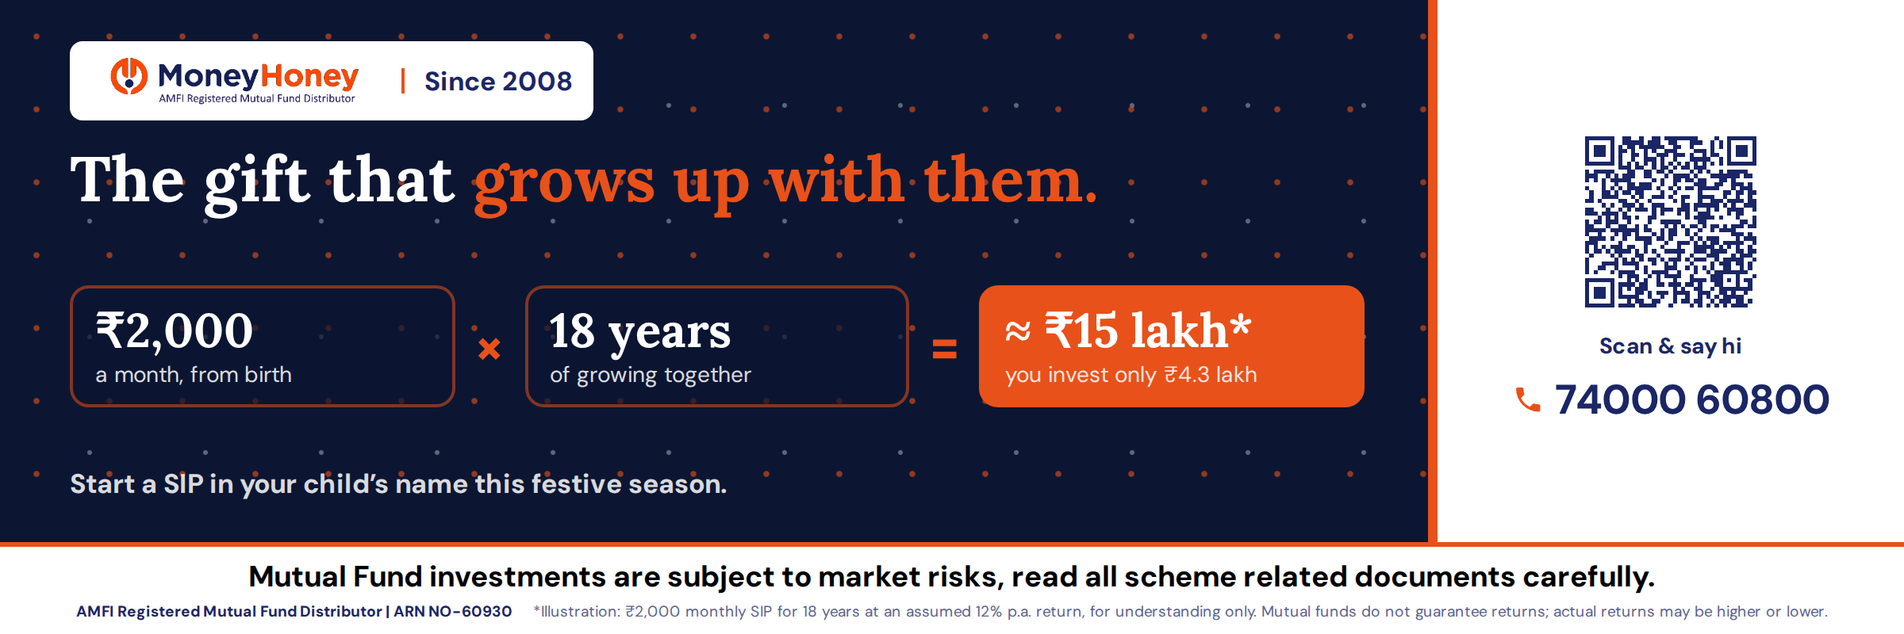
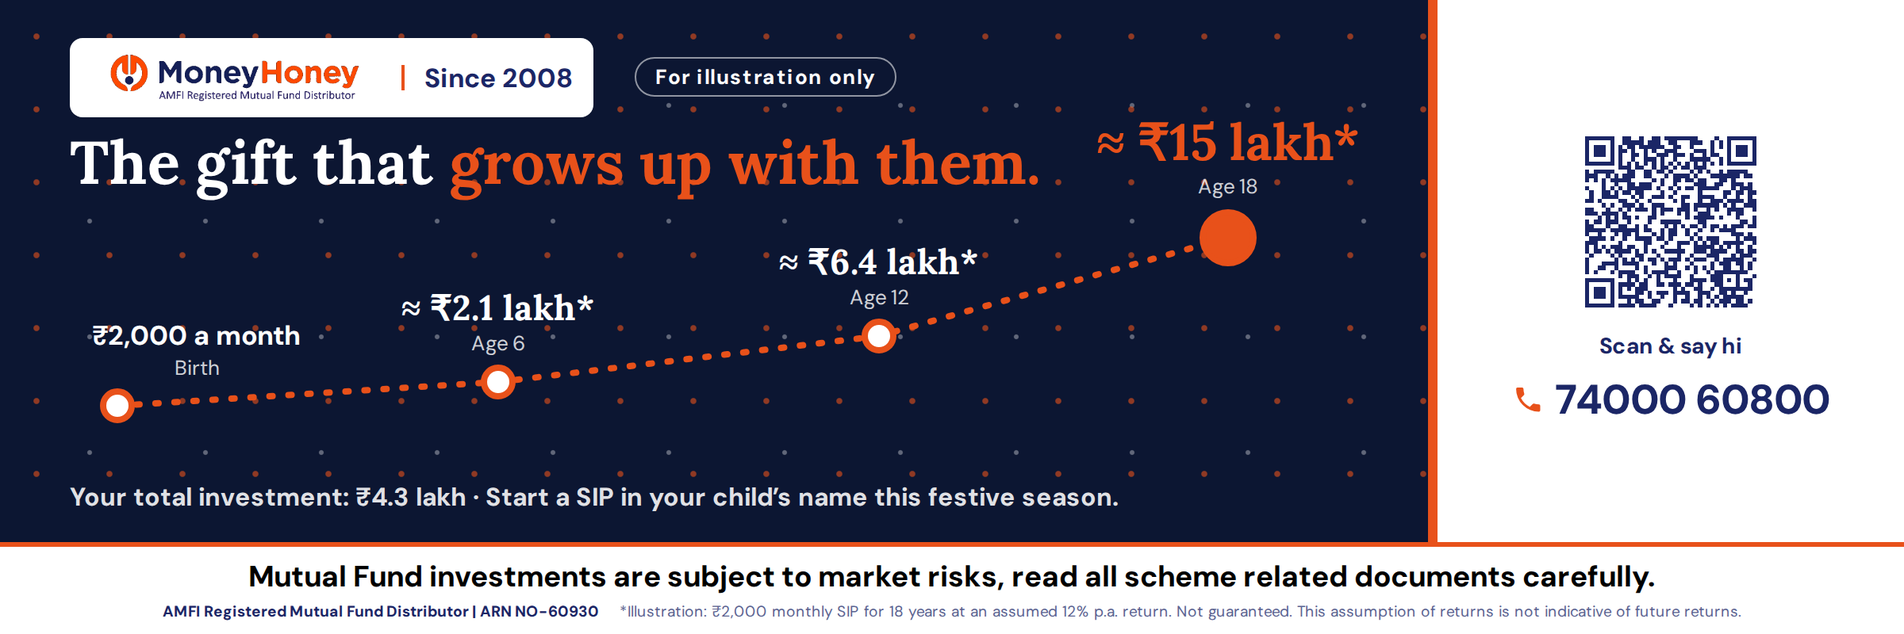
October: illustration tag and fuller footnote; backdrop shows SIP growth journey instead of multiplication
Claude-Session: https://claude.ai/code/session_012G79t5yK17L6XzJDoU9tJ5

diff --git a/bus-stop-banners/monthly/hi/10-oct/backdrop-12x4.html b/bus-stop-banners/monthly/hi/10-oct/backdrop-12x4.html
@@ -64,15 +64,20 @@ body.hi *:not(.lat) { letter-spacing:0 !important; }
 
 .banner { width:1200px; height:400px; background:#0C1632; }
 .stage { background-color:#0C1632; background-image:radial-gradient(circle, rgba(232,81,26,.6) 0 1.6px, transparent 2.2px), radial-gradient(circle, rgba(255,255,255,.35) 0 1.2px, transparent 1.8px); background-size:46px 46px, 73px 73px; background-position:0 0, 20px 30px; }
-.lg { position:absolute; left:44px; top:26px; }
-.h1 { position:absolute; left:44px; right:340px; top:92px; color:#fff; font-size:40px; }
-.eq { position:absolute; left:44px; right:340px; top:180px; display:flex; align-items:center; gap:12px; }
-.eq .t { flex:1; border:2px solid rgba(232,81,26,.55); border-radius:12px; padding:10px 14px; color:#fff; background:rgba(12,22,50,.7); }
-.eq .t.hl { background:var(--orange); border-color:var(--orange); color:#fff; }
-.eq .v { font-family:var(--display); font-weight:var(--dw); font-size:30px; white-space:nowrap; line-height:1.1; }
-.eq .l { font-size:14px; opacity:.85; margin-top:2px; }
-.eq .op { color:var(--orange); font-size:34px; font-weight:800; }
-.sub { position:absolute; left:44px; right:340px; bottom:26px; color:rgba(255,255,255,.85); font-size:17px; font-weight:600; }
+.lg { position:absolute; left:44px; top:24px; }
+.tag { position:absolute; left:400px; top:36px; color:#fff; font-size:13px; font-weight:700; letter-spacing:.06em;
+  border:1.5px solid rgba(255,255,255,.55); border-radius:30px; padding:3px 12px; }
+.h1 { position:absolute; left:44px; right:340px; top:82px; color:#fff; font-size:38px; }
+.journey { position:absolute; left:44px; top:128px; width:760px; height:150px; }
+.journey svg { position:absolute; left:0; top:0; }
+.ms { position:absolute; transform:translate(-50%, -100%); margin-top:-16px; text-align:center; white-space:nowrap; color:#fff; }
+.ms .v { font-family:var(--display); font-weight:var(--dw); font-size:22px; line-height:1.1; }
+.ms .a { font-size:13px; opacity:.8; margin-top:2px; }
+.ms.last { margin-top:-24px; } .ms.last .v { font-size:32px; color:var(--orange); }
+.ms.first { transform:translate(-12%, -100%); }
+.ms.first .v { font-family:var(--sans); font-weight:700; font-size:17px; }
+.inv { position:absolute; left:44px; bottom:18px; color:rgba(255,255,255,.9); font-size:16px; font-weight:600; }
+.inv b { color:var(--orange); }
 .cta { position:absolute; right:0; top:0; bottom:0; width:300px; background:#fff; display:flex; flex-direction:column;
   align-items:center; justify-content:center; gap:12px; border-left:6px solid var(--orange); }
 
@@ -83,15 +88,15 @@ body.hi *:not(.lat) { letter-spacing:0 !important; }
 <div class="stage">
 
 <div class="lg"><div class="lockup chip" style="--lh:38px;"><img src="../../assets/logo.png" alt="MoneyHoney"><span class="since lat">Since 2008</span></div></div>
+<div class="tag">केवल उदाहरण के लिए</div>
 <div class="h1 d">ऐसा तोहफ़ा, <span class="o">जो बच्चे के साथ बड़ा हो।</span></div>
-<div class="eq"><div class="t"><div class="v">&#8377;2,000</div><div class="l">हर महीने, जन्म से</div></div><div class="op">&times;</div>
-<div class="t"><div class="v">18 साल</div><div class="l">साथ-साथ बढ़ते हुए</div></div><div class="op">=</div>
-<div class="t hl"><div class="v">&asymp; &#8377;15 लाख*</div><div class="l">आपका निवेश सिर्फ़ &#8377;4.3 लाख</div></div></div>
-<div class="sub">इस त्योहार, अपने बच्चे के नाम पर SIP शुरू करें।</div>
+<div class="journey"><svg width="760" height="150" viewBox="0 0 760 150">
+<path d="M30,128 270,113 510,84 730,22" fill="none" stroke="#E8511A" stroke-width="4" stroke-dasharray="2 10" stroke-linecap="round"/><circle cx="30" cy="128" r="9" fill="#fff" stroke="#E8511A" stroke-width="4"/><circle cx="270" cy="113" r="9" fill="#fff" stroke="#E8511A" stroke-width="4"/><circle cx="510" cy="84" r="9" fill="#fff" stroke="#E8511A" stroke-width="4"/><circle cx="730" cy="22" r="16" fill="#E8511A" stroke="#E8511A" stroke-width="4"/></svg><div class="ms first" style="left:30px;top:128px"><div class="v">&#8377;2,000 हर महीने</div><div class="a">जन्म</div></div><div class="ms" style="left:270px;top:113px"><div class="v">&asymp; &#8377;2.1 लाख*</div><div class="a">6 साल</div></div><div class="ms" style="left:510px;top:84px"><div class="v">&asymp; &#8377;6.4 लाख*</div><div class="a">12 साल</div></div><div class="ms last" style="left:730px;top:22px"><div class="v">&asymp; &#8377;15 लाख*</div><div class="a">18 साल</div></div></div>
+<div class="inv">आपका कुल निवेश: &#8377;4.3 लाख &middot; इस त्योहार, अपने बच्चे के नाम पर SIP शुरू करें।</div>
 <div class="cta"><div class="qrb"><div class="qr" style="width:128px;height:128px"><svg viewBox="0 0 41 41" width="100%" height="100%" shape-rendering="crispEdges" class="segno"><path class="qrline" stroke="#1b2666" d="M0 0.5h7m1 0h2m1 0h1m2 0h1m1 0h2m2 0h1m2 0h1m2 0h1m3 0h1m3 0h7m-41 1h1m5 0h1m1 0h2m1 0h2m2 0h2m1 0h5m1 0h3m2 0h1m1 0h2m1 0h1m5 0h1m-41 1h1m1 0h3m1 0h1m1 0h3m1 0h2m2 0h1m5 0h1m1 0h2m1 0h2m1 0h3m1 0h1m1 0h3m1 0h1m-41 1h1m1 0h3m1 0h1m6 0h3m2 0h1m6 0h1m3 0h1m1 0h2m1 0h1m1 0h3m1 0h1m-41 1h1m1 0h3m1 0h1m1 0h3m1 0h3m4 0h3m3 0h2m1 0h5m1 0h1m1 0h3m1 0h1m-41 1h1m5 0h1m3 0h1m3 0h1m2 0h2m3 0h2m1 0h2m5 0h1m1 0h1m5 0h1m-41 1h7m1 0h1m1 0h1m1 0h1m1 0h1m1 0h1m1 0h1m1 0h1m1 0h1m1 0h1m1 0h1m1 0h1m1 0h1m1 0h1m1 0h7m-32 1h2m1 0h1m2 0h2m1 0h1m1 0h1m2 0h3m2 0h1m2 0h2m-33 1h1m2 0h7m1 0h1m2 0h2m1 0h4m1 0h1m4 0h3m1 0h3m2 0h1m1 0h3m-41 1h1m2 0h3m1 0h2m1 0h1m1 0h1m3 0h1m2 0h2m2 0h2m2 0h2m1 0h2m3 0h2m2 0h1m-37 1h4m2 0h2m1 0h1m1 0h2m1 0h2m1 0h10m3 0h1m1 0h2m1 0h1m-39 1h1m8 0h1m1 0h5m1 0h2m3 0h2m2 0h1m2 0h1m1 0h2m1 0h1m1 0h2m-38 1h2m2 0h4m8 0h1m2 0h2m2 0h2m1 0h3m1 0h1m1 0h1m1 0h1m5 0h1m-40 1h4m3 0h1m1 0h3m1 0h1m1 0h1m1 0h2m4 0h6m4 0h1m1 0h1m1 0h1m1 0h1m-41 1h2m2 0h1m1 0h1m3 0h1m2 0h1m1 0h1m2 0h1m3 0h1m1 0h2m1 0h2m1 0h2m1 0h2m1 0h2m1 0h2m-41 1h1m1 0h1m1 0h2m3 0h3m1 0h3m2 0h2m4 0h1m3 0h1m2 0h3m1 0h4m-37 1h1m1 0h1m1 0h1m2 0h2m4 0h2m2 0h1m1 0h3m1 0h1m1 0h2m1 0h1m1 0h2m5 0h2m-41 1h1m2 0h2m2 0h1m1 0h7m2 0h2m2 0h1m1 0h1m1 0h2m2 0h4m2 0h2m1 0h1m-40 1h1m1 0h2m2 0h1m2 0h2m1 0h1m1 0h3m2 0h1m1 0h11m3 0h2m1 0h1m1 0h1m-40 1h1m1 0h1m1 0h1m3 0h2m3 0h6m2 0h4m5 0h3m2 0h5m-41 1h2m2 0h5m2 0h1m2 0h1m1 0h1m2 0h4m3 0h2m1 0h3m2 0h2m2 0h1m-38 1h1m1 0h3m1 0h3m2 0h2m1 0h2m1 0h3m2 0h1m1 0h3m2 0h3m1 0h1m1 0h3m-39 1h2m1 0h2m1 0h1m1 0h2m2 0h2m1 0h1m1 0h2m2 0h1m1 0h2m1 0h2m1 0h2m2 0h3m2 0h1m-39 1h1m1 0h1m1 0h2m1 0h2m2 0h2m1 0h2m1 0h2m1 0h1m1 0h3m1 0h4m3 0h4m2 0h2m-41 1h5m1 0h1m1 0h6m1 0h1m2 0h2m2 0h2m2 0h3m1 0h1m1 0h1m1 0h4m1 0h2m-37 1h1m2 0h3m1 0h1m1 0h1m6 0h6m1 0h2m1 0h1m1 0h5m1 0h1m1 0h1m-40 1h2m2 0h2m1 0h1m2 0h4m1 0h1m1 0h2m5 0h3m1 0h5m2 0h2m2 0h1m-41 1h2m2 0h2m1 0h1m3 0h1m4 0h1m2 0h1m3 0h1m6 0h2m1 0h1m2 0h5m-41 1h2m2 0h4m3 0h4m1 0h1m5 0h5m1 0h1m1 0h2m5 0h1m1 0h2m-41 1h2m1 0h2m2 0h1m2 0h1m2 0h1m3 0h2m2 0h1m1 0h2m1 0h4m1 0h2m3 0h2m1 0h1m-40 1h3m1 0h1m1 0h1m1 0h1m3 0h1m1 0h1m1 0h1m2 0h1m1 0h4m1 0h4m1 0h1m1 0h1m1 0h2m1 0h3m-41 1h3m5 0h2m2 0h1m1 0h3m2 0h2m1 0h2m1 0h3m3 0h2m1 0h1m3 0h1m-39 1h3m3 0h6m1 0h5m1 0h1m1 0h1m1 0h1m3 0h1m1 0h8m1 0h1m1 0h1m-33 1h5m2 0h1m2 0h4m1 0h6m3 0h1m3 0h1m1 0h2m-40 1h7m1 0h3m2 0h1m2 0h3m1 0h1m1 0h2m2 0h2m1 0h1m1 0h2m1 0h1m1 0h1m2 0h1m-40 1h1m5 0h1m1 0h2m2 0h3m2 0h1m3 0h3m2 0h4m1 0h2m3 0h1m3 0h1m-41 1h1m1 0h3m1 0h1m1 0h1m1 0h1m1 0h3m1 0h6m1 0h1m2 0h3m1 0h7m2 0h2m-41 1h1m1 0h3m1 0h1m1 0h2m2 0h1m4 0h1m2 0h1m2 0h4m1 0h2m5 0h1m2 0h1m1 0h1m-41 1h1m1 0h3m1 0h1m3 0h3m2 0h2m1 0h2m1 0h2m1 0h2m1 0h3m3 0h1m1 0h2m3 0h1m-41 1h1m5 0h1m2 0h2m1 0h2m1 0h1m4 0h1m1 0h3m3 0h1m1 0h1m5 0h1m1 0h1m1 0h1m-41 1h7m1 0h1m3 0h4m2 0h1m4 0h1m1 0h3m3 0h3m2 0h2"/></svg></div><div class="qrl" style="font-size:14px;color:inherit">स्कैन करें, बात करें</div></div><div class="call " style="font-size:26px"><svg viewBox="0 0 24 24" class="ico" aria-hidden="true"><path fill="currentColor" d="M6.6 10.8a15.1 15.1 0 0 0 6.6 6.6l2.2-2.2a1 1 0 0 1 1-.25 11.4 11.4 0 0 0 3.6.57 1 1 0 0 1 1 1V20a1 1 0 0 1-1 1A17 17 0 0 1 3 4a1 1 0 0 1 1-1h3.5a1 1 0 0 1 1 1c0 1.25.2 2.45.57 3.57a1 1 0 0 1-.25 1z"/></svg><span>74000 60800</span></div></div>
 </div>
 
-<div class="cz cz-back"><div class="cz-w">Mutual Fund investments are subject to market risks, read all scheme related documents carefully.</div><div class="cz-m"><b>AMFI Registered Mutual Fund Distributor | ARN NO-60930</b><span class="fn">*Illustration: &#8377;2,000 monthly SIP for 18 years at an assumed 12% p.a. return, for understanding only. Mutual funds do not guarantee returns; actual returns may be higher or lower.</span></div></div>
+<div class="cz cz-back"><div class="cz-w">Mutual Fund investments are subject to market risks, read all scheme related documents carefully.</div><div class="cz-m"><b>AMFI Registered Mutual Fund Distributor | ARN NO-60930</b><span class="fn">*Illustration: &#8377;2,000 monthly SIP for 18 years at an assumed 12% p.a. return. Not guaranteed. This assumption of returns is not indicative of future returns.</span></div></div>
 </div>
 </body>
 </html>

diff --git a/bus-stop-banners/monthly/en/10-oct/backdrop-12x4.html b/bus-stop-banners/monthly/en/10-oct/backdrop-12x4.html
@@ -64,15 +64,20 @@ body.hi *:not(.lat) { letter-spacing:0 !important; }
 
 .banner { width:1200px; height:400px; background:#0C1632; }
 .stage { background-color:#0C1632; background-image:radial-gradient(circle, rgba(232,81,26,.6) 0 1.6px, transparent 2.2px), radial-gradient(circle, rgba(255,255,255,.35) 0 1.2px, transparent 1.8px); background-size:46px 46px, 73px 73px; background-position:0 0, 20px 30px; }
-.lg { position:absolute; left:44px; top:26px; }
-.h1 { position:absolute; left:44px; right:340px; top:92px; color:#fff; font-size:40px; }
-.eq { position:absolute; left:44px; right:340px; top:180px; display:flex; align-items:center; gap:12px; }
-.eq .t { flex:1; border:2px solid rgba(232,81,26,.55); border-radius:12px; padding:10px 14px; color:#fff; background:rgba(12,22,50,.7); }
-.eq .t.hl { background:var(--orange); border-color:var(--orange); color:#fff; }
-.eq .v { font-family:var(--display); font-weight:var(--dw); font-size:30px; white-space:nowrap; line-height:1.1; }
-.eq .l { font-size:14px; opacity:.85; margin-top:2px; }
-.eq .op { color:var(--orange); font-size:34px; font-weight:800; }
-.sub { position:absolute; left:44px; right:340px; bottom:26px; color:rgba(255,255,255,.85); font-size:17px; font-weight:600; }
+.lg { position:absolute; left:44px; top:24px; }
+.tag { position:absolute; left:400px; top:36px; color:#fff; font-size:13px; font-weight:700; letter-spacing:.06em;
+  border:1.5px solid rgba(255,255,255,.55); border-radius:30px; padding:3px 12px; }
+.h1 { position:absolute; left:44px; right:340px; top:82px; color:#fff; font-size:38px; }
+.journey { position:absolute; left:44px; top:128px; width:760px; height:150px; }
+.journey svg { position:absolute; left:0; top:0; }
+.ms { position:absolute; transform:translate(-50%, -100%); margin-top:-16px; text-align:center; white-space:nowrap; color:#fff; }
+.ms .v { font-family:var(--display); font-weight:var(--dw); font-size:22px; line-height:1.1; }
+.ms .a { font-size:13px; opacity:.8; margin-top:2px; }
+.ms.last { margin-top:-24px; } .ms.last .v { font-size:32px; color:var(--orange); }
+.ms.first { transform:translate(-12%, -100%); }
+.ms.first .v { font-family:var(--sans); font-weight:700; font-size:17px; }
+.inv { position:absolute; left:44px; bottom:18px; color:rgba(255,255,255,.9); font-size:16px; font-weight:600; }
+.inv b { color:var(--orange); }
 .cta { position:absolute; right:0; top:0; bottom:0; width:300px; background:#fff; display:flex; flex-direction:column;
   align-items:center; justify-content:center; gap:12px; border-left:6px solid var(--orange); }
 
@@ -83,15 +88,15 @@ body.hi *:not(.lat) { letter-spacing:0 !important; }
 <div class="stage">
 
 <div class="lg"><div class="lockup chip" style="--lh:38px;"><img src="../../assets/logo.png" alt="MoneyHoney"><span class="since lat">Since 2008</span></div></div>
+<div class="tag">For illustration only</div>
 <div class="h1 d">The gift that <span class="o">grows up with them.</span></div>
-<div class="eq"><div class="t"><div class="v">&#8377;2,000</div><div class="l">a month, from birth</div></div><div class="op">&times;</div>
-<div class="t"><div class="v">18 years</div><div class="l">of growing together</div></div><div class="op">=</div>
-<div class="t hl"><div class="v">&asymp; &#8377;15 lakh*</div><div class="l">you invest only &#8377;4.3 lakh</div></div></div>
-<div class="sub">Start a SIP in your child&rsquo;s name this festive season.</div>
+<div class="journey"><svg width="760" height="150" viewBox="0 0 760 150">
+<path d="M30,128 270,113 510,84 730,22" fill="none" stroke="#E8511A" stroke-width="4" stroke-dasharray="2 10" stroke-linecap="round"/><circle cx="30" cy="128" r="9" fill="#fff" stroke="#E8511A" stroke-width="4"/><circle cx="270" cy="113" r="9" fill="#fff" stroke="#E8511A" stroke-width="4"/><circle cx="510" cy="84" r="9" fill="#fff" stroke="#E8511A" stroke-width="4"/><circle cx="730" cy="22" r="16" fill="#E8511A" stroke="#E8511A" stroke-width="4"/></svg><div class="ms first" style="left:30px;top:128px"><div class="v">&#8377;2,000 a month</div><div class="a">Birth</div></div><div class="ms" style="left:270px;top:113px"><div class="v">&asymp; &#8377;2.1 lakh*</div><div class="a">Age 6</div></div><div class="ms" style="left:510px;top:84px"><div class="v">&asymp; &#8377;6.4 lakh*</div><div class="a">Age 12</div></div><div class="ms last" style="left:730px;top:22px"><div class="v">&asymp; &#8377;15 lakh*</div><div class="a">Age 18</div></div></div>
+<div class="inv">Your total investment: &#8377;4.3 lakh &middot; Start a SIP in your child&rsquo;s name this festive season.</div>
 <div class="cta"><div class="qrb"><div class="qr" style="width:128px;height:128px"><svg viewBox="0 0 41 41" width="100%" height="100%" shape-rendering="crispEdges" class="segno"><path class="qrline" stroke="#1b2666" d="M0 0.5h7m2 0h2m2 0h1m2 0h2m1 0h8m4 0h1m2 0h7m-41 1h1m5 0h1m2 0h5m1 0h3m2 0h2m3 0h3m2 0h1m1 0h1m1 0h1m5 0h1m-41 1h1m1 0h3m1 0h1m1 0h1m1 0h2m1 0h6m2 0h2m2 0h1m4 0h1m1 0h1m1 0h1m1 0h3m1 0h1m-41 1h1m1 0h3m1 0h1m1 0h2m1 0h1m2 0h1m1 0h1m2 0h3m4 0h3m1 0h1m3 0h1m1 0h3m1 0h1m-41 1h1m1 0h3m1 0h1m1 0h1m2 0h2m1 0h1m2 0h3m1 0h3m1 0h1m2 0h1m1 0h2m2 0h1m1 0h3m1 0h1m-41 1h1m5 0h1m1 0h1m2 0h1m2 0h3m1 0h1m2 0h1m3 0h5m2 0h1m1 0h1m5 0h1m-41 1h7m1 0h1m1 0h1m1 0h1m1 0h1m1 0h1m1 0h1m1 0h1m1 0h1m1 0h1m1 0h1m1 0h1m1 0h1m1 0h1m1 0h7m-33 1h3m1 0h2m2 0h1m1 0h2m1 0h1m1 0h2m1 0h3m-29 1h1m1 0h5m3 0h2m2 0h2m1 0h2m1 0h1m4 0h1m1 0h1m1 0h1m2 0h1m1 0h5m-39 1h3m2 0h1m1 0h1m1 0h3m2 0h2m3 0h1m1 0h4m1 0h1m3 0h7m1 0h2m-40 1h1m1 0h1m1 0h1m1 0h5m5 0h1m1 0h1m2 0h2m1 0h2m1 0h2m3 0h2m1 0h1m-32 1h1m2 0h1m2 0h2m1 0h3m2 0h1m2 0h1m4 0h3m2 0h2m2 0h3m1 0h1m-40 1h1m3 0h1m1 0h1m1 0h1m1 0h6m1 0h1m2 0h1m1 0h1m1 0h2m1 0h5m3 0h1m1 0h3m-39 1h1m2 0h2m1 0h1m1 0h2m1 0h2m4 0h1m2 0h1m5 0h1m5 0h2m1 0h2m1 0h2m-40 1h1m2 0h4m3 0h1m1 0h1m2 0h3m1 0h1m2 0h2m2 0h4m2 0h1m2 0h1m2 0h1m-40 1h2m1 0h1m4 0h2m2 0h1m2 0h1m5 0h1m1 0h1m3 0h1m2 0h3m1 0h4m1 0h2m-37 1h1m1 0h1m2 0h3m1 0h1m2 0h3m4 0h2m1 0h6m1 0h1m1 0h1m2 0h3m-41 1h2m3 0h1m2 0h1m1 0h1m1 0h3m1 0h1m1 0h3m1 0h3m1 0h1m2 0h1m1 0h1m2 0h4m2 0h1m-41 1h3m1 0h4m1 0h1m6 0h1m1 0h1m3 0h1m1 0h1m2 0h3m4 0h1m1 0h2m-35 1h1m1 0h1m1 0h1m1 0h2m1 0h1m2 0h2m7 0h1m1 0h5m1 0h1m3 0h1m3 0h1m-41 1h1m1 0h2m1 0h3m2 0h1m4 0h1m2 0h5m4 0h2m8 0h2m1 0h1m-41 1h2m3 0h1m2 0h2m2 0h1m1 0h1m4 0h1m1 0h1m1 0h1m1 0h2m1 0h1m1 0h2m1 0h1m1 0h3m1 0h2m-41 1h5m1 0h7m1 0h2m2 0h1m1 0h2m2 0h1m2 0h1m2 0h1m1 0h4m-36 1h1m2 0h1m3 0h1m1 0h2m1 0h1m3 0h1m1 0h1m1 0h2m2 0h1m1 0h1m8 0h3m1 0h1m-39 1h4m1 0h1m2 0h1m2 0h4m1 0h2m1 0h1m4 0h1m1 0h1m1 0h3m4 0h1m1 0h3m-41 1h3m5 0h1m5 0h2m3 0h1m2 0h3m1 0h1m1 0h1m1 0h2m1 0h5m2 0h1m-41 1h1m1 0h1m1 0h1m1 0h3m1 0h2m2 0h1m3 0h1m3 0h1m3 0h5m1 0h1m1 0h1m1 0h1m2 0h1m-40 1h1m1 0h2m1 0h1m1 0h4m1 0h1m1 0h1m1 0h1m2 0h5m2 0h3m1 0h4m2 0h2m1 0h2m-40 1h1m4 0h1m1 0h1m3 0h2m3 0h1m4 0h1m2 0h1m3 0h3m3 0h1m1 0h3m-40 1h1m6 0h1m1 0h1m1 0h1m1 0h1m1 0h2m1 0h1m1 0h3m1 0h1m1 0h3m2 0h1m1 0h5m2 0h1m-41 1h1m3 0h4m1 0h4m3 0h1m2 0h1m1 0h1m3 0h1m4 0h1m1 0h3m1 0h2m1 0h1m-40 1h1m2 0h2m2 0h1m4 0h1m1 0h1m4 0h3m2 0h1m1 0h1m1 0h1m1 0h1m2 0h2m2 0h1m1 0h1m-40 1h1m1 0h1m3 0h1m1 0h4m2 0h1m1 0h4m2 0h1m3 0h1m2 0h1m1 0h8m-31 1h1m1 0h3m2 0h1m1 0h1m1 0h4m2 0h1m4 0h3m3 0h1m3 0h1m-41 1h7m3 0h1m1 0h1m1 0h1m2 0h1m3 0h1m3 0h4m1 0h3m1 0h1m1 0h1m1 0h2m-40 1h1m5 0h1m1 0h4m1 0h2m2 0h2m1 0h3m1 0h2m1 0h1m3 0h2m3 0h1m2 0h1m-40 1h1m1 0h3m1 0h1m1 0h1m1 0h1m1 0h3m6 0h1m1 0h1m2 0h2m2 0h1m1 0h8m-40 1h1m1 0h3m1 0h1m1 0h1m3 0h2m1 0h1m1 0h3m1 0h4m2 0h3m2 0h2m1 0h1m2 0h1m-39 1h1m1 0h3m1 0h1m1 0h5m2 0h1m2 0h1m2 0h1m2 0h1m2 0h1m1 0h1m1 0h1m1 0h5m-38 1h1m5 0h1m3 0h1m1 0h2m2 0h2m3 0h1m1 0h2m1 0h2m2 0h1m1 0h3m1 0h2m1 0h1m-40 1h7m1 0h4m1 0h4m3 0h1m4 0h1m1 0h1m1 0h1m1 0h1m1 0h1m1 0h4"/></svg></div><div class="qrl" style="font-size:14px;color:inherit">Scan &amp; say hi</div></div><div class="call " style="font-size:26px"><svg viewBox="0 0 24 24" class="ico" aria-hidden="true"><path fill="currentColor" d="M6.6 10.8a15.1 15.1 0 0 0 6.6 6.6l2.2-2.2a1 1 0 0 1 1-.25 11.4 11.4 0 0 0 3.6.57 1 1 0 0 1 1 1V20a1 1 0 0 1-1 1A17 17 0 0 1 3 4a1 1 0 0 1 1-1h3.5a1 1 0 0 1 1 1c0 1.25.2 2.45.57 3.57a1 1 0 0 1-.25 1z"/></svg><span>74000 60800</span></div></div>
 </div>
 
-<div class="cz cz-back"><div class="cz-w">Mutual Fund investments are subject to market risks, read all scheme related documents carefully.</div><div class="cz-m"><b>AMFI Registered Mutual Fund Distributor | ARN NO-60930</b><span class="fn">*Illustration: &#8377;2,000 monthly SIP for 18 years at an assumed 12% p.a. return, for understanding only. Mutual funds do not guarantee returns; actual returns may be higher or lower.</span></div></div>
+<div class="cz cz-back"><div class="cz-w">Mutual Fund investments are subject to market risks, read all scheme related documents carefully.</div><div class="cz-m"><b>AMFI Registered Mutual Fund Distributor | ARN NO-60930</b><span class="fn">*Illustration: &#8377;2,000 monthly SIP for 18 years at an assumed 12% p.a. return. Not guaranteed. This assumption of returns is not indicative of future returns.</span></div></div>
 </div>
 </body>
 </html>

diff --git a/bus-stop-banners/monthly/hi/10-oct/side-4x4.html b/bus-stop-banners/monthly/hi/10-oct/side-4x4.html
@@ -65,10 +65,12 @@ body.hi *:not(.lat) { letter-spacing:0 !important; }
 .banner { width:400px; height:400px; background:var(--orange); }
 
 .lk { position:absolute; left:24px; top:18px; }
-.dy { position:absolute; right:14px; top:18px; width:124px; height:124px; }
-.big { position:absolute; left:24px; top:56px; color:#fff; font-family:'DM Sans', sans-serif; font-weight:800; font-size:60px; line-height:1; }
-.dur { position:absolute; left:24px; top:118px; color:var(--navy); font-family:var(--sans); font-weight:800; font-size:50px; line-height:1.05; }
-.cap { position:absolute; left:24px; right:24px; top:180px; color:#fff; font-size:19px; font-weight:700; line-height:1.25; }
+.dy { position:absolute; right:14px; top:60px; width:116px; height:116px; }
+.stag { position:absolute; left:24px; top:62px; color:#fff; font-size:12px; font-weight:700; letter-spacing:.05em;
+  border:1.5px solid rgba(255,255,255,.75); border-radius:30px; padding:2px 10px; }
+.big { position:absolute; left:24px; top:84px; color:#fff; font-family:'DM Sans', sans-serif; font-weight:800; font-size:46px; line-height:1; }
+.dur { position:absolute; left:24px; top:128px; color:var(--navy); font-family:var(--sans); font-weight:800; font-size:40px; line-height:1.05; }
+.cap { position:absolute; left:24px; right:24px; top:176px; color:#fff; font-size:17px; font-weight:700; line-height:1.25; }
 
 </style>
 </head>
@@ -78,11 +80,11 @@ body.hi *:not(.lat) { letter-spacing:0 !important; }
 
 <div class="lk"><div class="lockup chip" style="--lh:22px;"><img src="../../assets/logo.png" alt="MoneyHoney"><span class="since lat">Since 2008</span></div></div>
 <div class="dy"><svg viewBox="0 0 120 120" width="100%" height="100%"><defs><radialGradient id="gls"><stop offset="0" stop-color="#fff" stop-opacity=".5"/><stop offset="1" stop-color="#fff" stop-opacity="0"/></radialGradient></defs><circle cx="60" cy="46" r="44" fill="url(#gls)"/><path d="M60 18c8 12 12 20 12 27a12 12 0 0 1-24 0c0-7 4-15 12-27z" fill="#fff"/><path d="M60 32c4 6 6 10 6 14a6 6 0 0 1-12 0c0-4 2-8 6-14z" fill="#fff"/><path d="M14 66h92c-4 24-22 38-46 38S18 90 14 66z" fill="#1B2666"/><path d="M26 74h68" stroke="#E8511A" stroke-width="3" stroke-dasharray="2 7" stroke-linecap="round"/></svg></div>
-<div class="big lat">SIP</div><div class="dur">18 साल</div><div class="cap">18 का होने तक &asymp; &#8377;15 लाख*।</div>
+<div class="stag">केवल उदाहरण के लिए</div><div class="big lat">SIP</div><div class="dur">18 साल</div><div class="cap">18 का होने तक &asymp; &#8377;15 लाख*।</div>
 <div class="scta" style="left:24px; bottom:14px; color:var(--navy); --ico:#fff"><div class="qr" style="width:86px;height:86px"><svg viewBox="0 0 41 41" width="100%" height="100%" shape-rendering="crispEdges" class="segno"><path class="qrline" stroke="#1b2666" d="M0 0.5h7m1 0h2m1 0h1m2 0h1m1 0h2m2 0h1m2 0h1m2 0h1m3 0h1m3 0h7m-41 1h1m5 0h1m1 0h2m1 0h2m2 0h2m1 0h5m1 0h3m2 0h1m1 0h2m1 0h1m5 0h1m-41 1h1m1 0h3m1 0h1m1 0h3m1 0h2m2 0h1m5 0h1m1 0h2m1 0h2m1 0h3m1 0h1m1 0h3m1 0h1m-41 1h1m1 0h3m1 0h1m6 0h3m2 0h1m6 0h1m3 0h1m1 0h2m1 0h1m1 0h3m1 0h1m-41 1h1m1 0h3m1 0h1m1 0h3m1 0h3m4 0h3m3 0h2m1 0h5m1 0h1m1 0h3m1 0h1m-41 1h1m5 0h1m3 0h1m3 0h1m2 0h2m3 0h2m1 0h2m5 0h1m1 0h1m5 0h1m-41 1h7m1 0h1m1 0h1m1 0h1m1 0h1m1 0h1m1 0h1m1 0h1m1 0h1m1 0h1m1 0h1m1 0h1m1 0h1m1 0h1m1 0h7m-32 1h2m1 0h1m2 0h2m1 0h1m1 0h1m2 0h3m2 0h1m2 0h2m-33 1h1m2 0h7m1 0h1m2 0h2m1 0h4m1 0h1m4 0h3m1 0h3m2 0h1m1 0h3m-41 1h1m2 0h3m1 0h2m1 0h1m1 0h1m3 0h1m2 0h2m2 0h2m2 0h2m1 0h2m3 0h2m2 0h1m-37 1h4m2 0h2m1 0h1m1 0h2m1 0h2m1 0h10m3 0h1m1 0h2m1 0h1m-39 1h1m8 0h1m1 0h5m1 0h2m3 0h2m2 0h1m2 0h1m1 0h2m1 0h1m1 0h2m-38 1h2m2 0h4m8 0h1m2 0h2m2 0h2m1 0h3m1 0h1m1 0h1m1 0h1m5 0h1m-40 1h4m3 0h1m1 0h3m1 0h1m1 0h1m1 0h2m4 0h6m4 0h1m1 0h1m1 0h1m1 0h1m-41 1h2m2 0h1m1 0h1m3 0h1m2 0h1m1 0h1m2 0h1m3 0h1m1 0h2m1 0h2m1 0h2m1 0h2m1 0h2m1 0h2m-41 1h1m1 0h1m1 0h2m3 0h3m1 0h3m2 0h2m4 0h1m3 0h1m2 0h3m1 0h4m-37 1h1m1 0h1m1 0h1m2 0h2m4 0h2m2 0h1m1 0h3m1 0h1m1 0h2m1 0h1m1 0h2m5 0h2m-41 1h1m2 0h2m2 0h1m1 0h7m2 0h2m2 0h1m1 0h1m1 0h2m2 0h4m2 0h2m1 0h1m-40 1h1m1 0h2m2 0h1m2 0h2m1 0h1m1 0h3m2 0h1m1 0h11m3 0h2m1 0h1m1 0h1m-40 1h1m1 0h1m1 0h1m3 0h2m3 0h6m2 0h4m5 0h3m2 0h5m-41 1h2m2 0h5m2 0h1m2 0h1m1 0h1m2 0h4m3 0h2m1 0h3m2 0h2m2 0h1m-38 1h1m1 0h3m1 0h3m2 0h2m1 0h2m1 0h3m2 0h1m1 0h3m2 0h3m1 0h1m1 0h3m-39 1h2m1 0h2m1 0h1m1 0h2m2 0h2m1 0h1m1 0h2m2 0h1m1 0h2m1 0h2m1 0h2m2 0h3m2 0h1m-39 1h1m1 0h1m1 0h2m1 0h2m2 0h2m1 0h2m1 0h2m1 0h1m1 0h3m1 0h4m3 0h4m2 0h2m-41 1h5m1 0h1m1 0h6m1 0h1m2 0h2m2 0h2m2 0h3m1 0h1m1 0h1m1 0h4m1 0h2m-37 1h1m2 0h3m1 0h1m1 0h1m6 0h6m1 0h2m1 0h1m1 0h5m1 0h1m1 0h1m-40 1h2m2 0h2m1 0h1m2 0h4m1 0h1m1 0h2m5 0h3m1 0h5m2 0h2m2 0h1m-41 1h2m2 0h2m1 0h1m3 0h1m4 0h1m2 0h1m3 0h1m6 0h2m1 0h1m2 0h5m-41 1h2m2 0h4m3 0h4m1 0h1m5 0h5m1 0h1m1 0h2m5 0h1m1 0h2m-41 1h2m1 0h2m2 0h1m2 0h1m2 0h1m3 0h2m2 0h1m1 0h2m1 0h4m1 0h2m3 0h2m1 0h1m-40 1h3m1 0h1m1 0h1m1 0h1m3 0h1m1 0h1m1 0h1m2 0h1m1 0h4m1 0h4m1 0h1m1 0h1m1 0h2m1 0h3m-41 1h3m5 0h2m2 0h1m1 0h3m2 0h2m1 0h2m1 0h3m3 0h2m1 0h1m3 0h1m-39 1h3m3 0h6m1 0h5m1 0h1m1 0h1m1 0h1m3 0h1m1 0h8m1 0h1m1 0h1m-33 1h5m2 0h1m2 0h4m1 0h6m3 0h1m3 0h1m1 0h2m-40 1h7m1 0h3m2 0h1m2 0h3m1 0h1m1 0h2m2 0h2m1 0h1m1 0h2m1 0h1m1 0h1m2 0h1m-40 1h1m5 0h1m1 0h2m2 0h3m2 0h1m3 0h3m2 0h4m1 0h2m3 0h1m3 0h1m-41 1h1m1 0h3m1 0h1m1 0h1m1 0h1m1 0h3m1 0h6m1 0h1m2 0h3m1 0h7m2 0h2m-41 1h1m1 0h3m1 0h1m1 0h2m2 0h1m4 0h1m2 0h1m2 0h4m1 0h2m5 0h1m2 0h1m1 0h1m-41 1h1m1 0h3m1 0h1m3 0h3m2 0h2m1 0h2m1 0h2m1 0h2m1 0h3m3 0h1m1 0h2m3 0h1m-41 1h1m5 0h1m2 0h2m1 0h2m1 0h1m4 0h1m1 0h3m3 0h1m1 0h1m5 0h1m1 0h1m1 0h1m-41 1h7m1 0h1m3 0h4m2 0h1m4 0h1m1 0h3m3 0h3m2 0h2"/></svg></div><div><div class="sl" style="font-size:14px">स्कैन करें, बात करें</div><div class="call " style="font-size:30px"><svg viewBox="0 0 24 24" class="ico" aria-hidden="true"><path fill="currentColor" d="M6.6 10.8a15.1 15.1 0 0 0 6.6 6.6l2.2-2.2a1 1 0 0 1 1-.25 11.4 11.4 0 0 0 3.6.57 1 1 0 0 1 1 1V20a1 1 0 0 1-1 1A17 17 0 0 1 3 4a1 1 0 0 1 1-1h3.5a1 1 0 0 1 1 1c0 1.25.2 2.45.57 3.57a1 1 0 0 1-.25 1z"/></svg><span>74000 60800</span></div></div></div>
 </div>
 
-<div class="cz cz-side"><div class="cz-w">Mutual Fund investments are subject to market risks, read all scheme related documents carefully.</div><div class="cz-m"><b>AMFI Registered Mutual Fund Distributor | ARN NO-60930</b><span class="fn">*Illustration: &#8377;2,000 monthly SIP for 18 years at an assumed 12% p.a. return. Not guaranteed.</span></div></div>
+<div class="cz cz-side"><div class="cz-w">Mutual Fund investments are subject to market risks, read all scheme related documents carefully.</div><div class="cz-m"><b>AMFI Registered Mutual Fund Distributor | ARN NO-60930</b><span class="fn">*Illustration: &#8377;2,000 monthly SIP for 18 years at an assumed 12% p.a. return. Not guaranteed. This assumption of returns is not indicative of future returns.</span></div></div>
 </div>
 </body>
 </html>

diff --git a/bus-stop-banners/monthly/en/10-oct/side-4x4.html b/bus-stop-banners/monthly/en/10-oct/side-4x4.html
@@ -65,10 +65,12 @@ body.hi *:not(.lat) { letter-spacing:0 !important; }
 .banner { width:400px; height:400px; background:var(--orange); }
 
 .lk { position:absolute; left:24px; top:18px; }
-.dy { position:absolute; right:14px; top:18px; width:124px; height:124px; }
-.big { position:absolute; left:24px; top:56px; color:#fff; font-family:'DM Sans', sans-serif; font-weight:800; font-size:60px; line-height:1; }
-.dur { position:absolute; left:24px; top:118px; color:var(--navy); font-family:var(--sans); font-weight:800; font-size:50px; line-height:1.05; }
-.cap { position:absolute; left:24px; right:24px; top:180px; color:#fff; font-size:19px; font-weight:700; line-height:1.25; }
+.dy { position:absolute; right:14px; top:60px; width:116px; height:116px; }
+.stag { position:absolute; left:24px; top:62px; color:#fff; font-size:12px; font-weight:700; letter-spacing:.05em;
+  border:1.5px solid rgba(255,255,255,.75); border-radius:30px; padding:2px 10px; }
+.big { position:absolute; left:24px; top:84px; color:#fff; font-family:'DM Sans', sans-serif; font-weight:800; font-size:46px; line-height:1; }
+.dur { position:absolute; left:24px; top:128px; color:var(--navy); font-family:var(--sans); font-weight:800; font-size:40px; line-height:1.05; }
+.cap { position:absolute; left:24px; right:24px; top:176px; color:#fff; font-size:17px; font-weight:700; line-height:1.25; }
 
 </style>
 </head>
@@ -78,11 +80,11 @@ body.hi *:not(.lat) { letter-spacing:0 !important; }
 
 <div class="lk"><div class="lockup chip" style="--lh:22px;"><img src="../../assets/logo.png" alt="MoneyHoney"><span class="since lat">Since 2008</span></div></div>
 <div class="dy"><svg viewBox="0 0 120 120" width="100%" height="100%"><defs><radialGradient id="gls"><stop offset="0" stop-color="#fff" stop-opacity=".5"/><stop offset="1" stop-color="#fff" stop-opacity="0"/></radialGradient></defs><circle cx="60" cy="46" r="44" fill="url(#gls)"/><path d="M60 18c8 12 12 20 12 27a12 12 0 0 1-24 0c0-7 4-15 12-27z" fill="#fff"/><path d="M60 32c4 6 6 10 6 14a6 6 0 0 1-12 0c0-4 2-8 6-14z" fill="#fff"/><path d="M14 66h92c-4 24-22 38-46 38S18 90 14 66z" fill="#1B2666"/><path d="M26 74h68" stroke="#E8511A" stroke-width="3" stroke-dasharray="2 7" stroke-linecap="round"/></svg></div>
-<div class="big lat">SIP</div><div class="dur">18 years</div><div class="cap">&asymp; &#8377;15 lakh* by the time they turn 18.</div>
+<div class="stag">For illustration only</div><div class="big lat">SIP</div><div class="dur">18 years</div><div class="cap">&asymp; &#8377;15 lakh* by the time they turn 18.</div>
 <div class="scta" style="left:24px; bottom:14px; color:var(--navy); --ico:#fff"><div class="qr" style="width:86px;height:86px"><svg viewBox="0 0 41 41" width="100%" height="100%" shape-rendering="crispEdges" class="segno"><path class="qrline" stroke="#1b2666" d="M0 0.5h7m2 0h2m2 0h1m2 0h2m1 0h8m4 0h1m2 0h7m-41 1h1m5 0h1m2 0h5m1 0h3m2 0h2m3 0h3m2 0h1m1 0h1m1 0h1m5 0h1m-41 1h1m1 0h3m1 0h1m1 0h1m1 0h2m1 0h6m2 0h2m2 0h1m4 0h1m1 0h1m1 0h1m1 0h3m1 0h1m-41 1h1m1 0h3m1 0h1m1 0h2m1 0h1m2 0h1m1 0h1m2 0h3m4 0h3m1 0h1m3 0h1m1 0h3m1 0h1m-41 1h1m1 0h3m1 0h1m1 0h1m2 0h2m1 0h1m2 0h3m1 0h3m1 0h1m2 0h1m1 0h2m2 0h1m1 0h3m1 0h1m-41 1h1m5 0h1m1 0h1m2 0h1m2 0h3m1 0h1m2 0h1m3 0h5m2 0h1m1 0h1m5 0h1m-41 1h7m1 0h1m1 0h1m1 0h1m1 0h1m1 0h1m1 0h1m1 0h1m1 0h1m1 0h1m1 0h1m1 0h1m1 0h1m1 0h1m1 0h7m-33 1h3m1 0h2m2 0h1m1 0h2m1 0h1m1 0h2m1 0h3m-29 1h1m1 0h5m3 0h2m2 0h2m1 0h2m1 0h1m4 0h1m1 0h1m1 0h1m2 0h1m1 0h5m-39 1h3m2 0h1m1 0h1m1 0h3m2 0h2m3 0h1m1 0h4m1 0h1m3 0h7m1 0h2m-40 1h1m1 0h1m1 0h1m1 0h5m5 0h1m1 0h1m2 0h2m1 0h2m1 0h2m3 0h2m1 0h1m-32 1h1m2 0h1m2 0h2m1 0h3m2 0h1m2 0h1m4 0h3m2 0h2m2 0h3m1 0h1m-40 1h1m3 0h1m1 0h1m1 0h1m1 0h6m1 0h1m2 0h1m1 0h1m1 0h2m1 0h5m3 0h1m1 0h3m-39 1h1m2 0h2m1 0h1m1 0h2m1 0h2m4 0h1m2 0h1m5 0h1m5 0h2m1 0h2m1 0h2m-40 1h1m2 0h4m3 0h1m1 0h1m2 0h3m1 0h1m2 0h2m2 0h4m2 0h1m2 0h1m2 0h1m-40 1h2m1 0h1m4 0h2m2 0h1m2 0h1m5 0h1m1 0h1m3 0h1m2 0h3m1 0h4m1 0h2m-37 1h1m1 0h1m2 0h3m1 0h1m2 0h3m4 0h2m1 0h6m1 0h1m1 0h1m2 0h3m-41 1h2m3 0h1m2 0h1m1 0h1m1 0h3m1 0h1m1 0h3m1 0h3m1 0h1m2 0h1m1 0h1m2 0h4m2 0h1m-41 1h3m1 0h4m1 0h1m6 0h1m1 0h1m3 0h1m1 0h1m2 0h3m4 0h1m1 0h2m-35 1h1m1 0h1m1 0h1m1 0h2m1 0h1m2 0h2m7 0h1m1 0h5m1 0h1m3 0h1m3 0h1m-41 1h1m1 0h2m1 0h3m2 0h1m4 0h1m2 0h5m4 0h2m8 0h2m1 0h1m-41 1h2m3 0h1m2 0h2m2 0h1m1 0h1m4 0h1m1 0h1m1 0h1m1 0h2m1 0h1m1 0h2m1 0h1m1 0h3m1 0h2m-41 1h5m1 0h7m1 0h2m2 0h1m1 0h2m2 0h1m2 0h1m2 0h1m1 0h4m-36 1h1m2 0h1m3 0h1m1 0h2m1 0h1m3 0h1m1 0h1m1 0h2m2 0h1m1 0h1m8 0h3m1 0h1m-39 1h4m1 0h1m2 0h1m2 0h4m1 0h2m1 0h1m4 0h1m1 0h1m1 0h3m4 0h1m1 0h3m-41 1h3m5 0h1m5 0h2m3 0h1m2 0h3m1 0h1m1 0h1m1 0h2m1 0h5m2 0h1m-41 1h1m1 0h1m1 0h1m1 0h3m1 0h2m2 0h1m3 0h1m3 0h1m3 0h5m1 0h1m1 0h1m1 0h1m2 0h1m-40 1h1m1 0h2m1 0h1m1 0h4m1 0h1m1 0h1m1 0h1m2 0h5m2 0h3m1 0h4m2 0h2m1 0h2m-40 1h1m4 0h1m1 0h1m3 0h2m3 0h1m4 0h1m2 0h1m3 0h3m3 0h1m1 0h3m-40 1h1m6 0h1m1 0h1m1 0h1m1 0h1m1 0h2m1 0h1m1 0h3m1 0h1m1 0h3m2 0h1m1 0h5m2 0h1m-41 1h1m3 0h4m1 0h4m3 0h1m2 0h1m1 0h1m3 0h1m4 0h1m1 0h3m1 0h2m1 0h1m-40 1h1m2 0h2m2 0h1m4 0h1m1 0h1m4 0h3m2 0h1m1 0h1m1 0h1m1 0h1m2 0h2m2 0h1m1 0h1m-40 1h1m1 0h1m3 0h1m1 0h4m2 0h1m1 0h4m2 0h1m3 0h1m2 0h1m1 0h8m-31 1h1m1 0h3m2 0h1m1 0h1m1 0h4m2 0h1m4 0h3m3 0h1m3 0h1m-41 1h7m3 0h1m1 0h1m1 0h1m2 0h1m3 0h1m3 0h4m1 0h3m1 0h1m1 0h1m1 0h2m-40 1h1m5 0h1m1 0h4m1 0h2m2 0h2m1 0h3m1 0h2m1 0h1m3 0h2m3 0h1m2 0h1m-40 1h1m1 0h3m1 0h1m1 0h1m1 0h1m1 0h3m6 0h1m1 0h1m2 0h2m2 0h1m1 0h8m-40 1h1m1 0h3m1 0h1m1 0h1m3 0h2m1 0h1m1 0h3m1 0h4m2 0h3m2 0h2m1 0h1m2 0h1m-39 1h1m1 0h3m1 0h1m1 0h5m2 0h1m2 0h1m2 0h1m2 0h1m2 0h1m1 0h1m1 0h1m1 0h5m-38 1h1m5 0h1m3 0h1m1 0h2m2 0h2m3 0h1m1 0h2m1 0h2m2 0h1m1 0h3m1 0h2m1 0h1m-40 1h7m1 0h4m1 0h4m3 0h1m4 0h1m1 0h1m1 0h1m1 0h1m1 0h1m1 0h4"/></svg></div><div><div class="sl" style="font-size:14px">Scan &amp; say hi</div><div class="call " style="font-size:30px"><svg viewBox="0 0 24 24" class="ico" aria-hidden="true"><path fill="currentColor" d="M6.6 10.8a15.1 15.1 0 0 0 6.6 6.6l2.2-2.2a1 1 0 0 1 1-.25 11.4 11.4 0 0 0 3.6.57 1 1 0 0 1 1 1V20a1 1 0 0 1-1 1A17 17 0 0 1 3 4a1 1 0 0 1 1-1h3.5a1 1 0 0 1 1 1c0 1.25.2 2.45.57 3.57a1 1 0 0 1-.25 1z"/></svg><span>74000 60800</span></div></div></div>
 </div>
 
-<div class="cz cz-side"><div class="cz-w">Mutual Fund investments are subject to market risks, read all scheme related documents carefully.</div><div class="cz-m"><b>AMFI Registered Mutual Fund Distributor | ARN NO-60930</b><span class="fn">*Illustration: &#8377;2,000 monthly SIP for 18 years at an assumed 12% p.a. return. Not guaranteed.</span></div></div>
+<div class="cz cz-side"><div class="cz-w">Mutual Fund investments are subject to market risks, read all scheme related documents carefully.</div><div class="cz-m"><b>AMFI Registered Mutual Fund Distributor | ARN NO-60930</b><span class="fn">*Illustration: &#8377;2,000 monthly SIP for 18 years at an assumed 12% p.a. return. Not guaranteed. This assumption of returns is not indicative of future returns.</span></div></div>
 </div>
 </body>
 </html>

diff --git a/bus-stop-banners/monthly/m10_oct.py b/bus-stop-banners/monthly/m10_oct.py
@@ -4,22 +4,29 @@ from framework import call, lockup, logo, qr_block, side_cta
 KEY = "10-oct"
 MSG = {"en": 'Hi! Bus stop ad: Gift a SIP this Diwali.',
        "hi": 'Hi! Bus stop ad: Diwali par SIP gift karni hai.'}
-NOTE = ("*Illustration: &#8377;2,000 monthly SIP for 18 years at an assumed 12% p.a. return, for understanding only. "
-              "Mutual funds do not guarantee returns; actual returns may be higher or lower.")
-SIDE_NOTE = '*Illustration: &#8377;2,000 monthly SIP for 18 years at an assumed 12% p.a. return. Not guaranteed.'
+NOTE = ('*Illustration: &#8377;2,000 monthly SIP for 18 years at an assumed 12% p.a. return. Not guaranteed. '
+        'This assumption of returns is not indicative of future returns.')
+SIDE_NOTE = ('*Illustration: &#8377;2,000 monthly SIP for 18 years at an assumed 12% p.a. return. Not guaranteed. '
+             'This assumption of returns is not indicative of future returns.')
 
 T = {
     "en": dict(
         f_h1="Crackers last 10 seconds.", f_h2="This Diwali gift lasts 18 years.", f_sub="Gift your child a SIP.",
         s_big="SIP", s_dur="18 years", s_cap="&asymp; &#8377;15 lakh* by the time they turn 18.",
         b_h1='The gift that <span class="o">grows up with them.</span>',
-        eq=[("&#8377;2,000", "a month, from birth"), ("18 years", "of growing together"), ("&asymp; &#8377;15 lakh*", "you invest only &#8377;4.3 lakh")],
+        tag="For illustration only",
+        steps=[("Birth", "&#8377;2,000 a month"), ("Age 6", "&asymp; &#8377;2.1 lakh*"), ("Age 12", "&asymp; &#8377;6.4 lakh*"),
+               ("Age 18", "&asymp; &#8377;15 lakh*")],
+        inv="Your total investment: &#8377;4.3 lakh",
         b_sub="Start a SIP in your child&rsquo;s name this festive season."),
     "hi": dict(
         f_h1="पटाखे 10 सेकंड चलते हैं।", f_h2="इस दिवाली का तोहफ़ा 18 साल चलेगा।", f_sub="अपने बच्चे को SIP गिफ़्ट करें।",
         s_big="SIP", s_dur="18 साल", s_cap="18 का होने तक &asymp; &#8377;15 लाख*।",
         b_h1='ऐसा तोहफ़ा, <span class="o">जो बच्चे के साथ बड़ा हो।</span>',
-        eq=[("&#8377;2,000", "हर महीने, जन्म से"), ("18 साल", "साथ-साथ बढ़ते हुए"), ("&asymp; &#8377;15 लाख*", "आपका निवेश सिर्फ़ &#8377;4.3 लाख")],
+        tag="केवल उदाहरण के लिए",
+        steps=[("जन्म", "&#8377;2,000 हर महीने"), ("6 साल", "&asymp; &#8377;2.1 लाख*"), ("12 साल", "&asymp; &#8377;6.4 लाख*"),
+               ("18 साल", "&asymp; &#8377;15 लाख*")],
+        inv="आपका कुल निवेश: &#8377;4.3 लाख",
         b_sub="इस त्योहार, अपने बच्चे के नाम पर SIP शुरू करें।"),
 }
 
@@ -52,26 +59,41 @@ def panels(lang, t):
 <div class="copy"><div class="a">{t['f_h1']}</div><div class="b d">{t['f_h2']}</div><div class="c">{t['f_sub']}</div></div>
 <div class="row">{logo(40, chip=True)}{call(46)}</div>""")
 
-    eq = t["eq"]
+    # growth journey: value of a Rs 2,000/month SIP at 12% p.a. (lakh), plotted on a rising path
+    vals = [0.0, 2.1, 6.4, 15.3]
+    W, H = 760, 150
+    xs = [30, 270, 510, 730]
+    ys = [H - 22 - v / vals[-1] * (H - 44) for v in vals]
+    path = "M" + " ".join(f"{x},{y:.0f}" for x, y in zip(xs, ys))
+    nodes = "".join(f'<circle cx="{x}" cy="{y:.0f}" r="{16 if i == 3 else 9}" fill="{"#E8511A" if i == 3 else "#fff"}" '
+                    f'stroke="#E8511A" stroke-width="4"/>' for i, (x, y) in enumerate(zip(xs, ys)))
+    labels = "".join(
+        f'<div class="ms{" last" if i == 3 else " first" if i == 0 else ""}" style="left:{x}px;top:{y:.0f}px"><div class="v">{v}</div><div class="a">{a_}</div></div>'
+        for i, ((a_, v), x, y) in enumerate(zip(t["steps"], xs, ys)))
     back = dict(bg="#0C1632", legal="navy", note=True, css=f".stage {{ {SPARKLE} }}" + """
-.lg { position:absolute; left:44px; top:26px; }
-.h1 { position:absolute; left:44px; right:340px; top:92px; color:#fff; font-size:40px; }
-.eq { position:absolute; left:44px; right:340px; top:180px; display:flex; align-items:center; gap:12px; }
-.eq .t { flex:1; border:2px solid rgba(232,81,26,.55); border-radius:12px; padding:10px 14px; color:#fff; background:rgba(12,22,50,.7); }
-.eq .t.hl { background:var(--orange); border-color:var(--orange); color:#fff; }
-.eq .v { font-family:var(--display); font-weight:var(--dw); font-size:30px; white-space:nowrap; line-height:1.1; }
-.eq .l { font-size:14px; opacity:.85; margin-top:2px; }
-.eq .op { color:var(--orange); font-size:34px; font-weight:800; }
-.sub { position:absolute; left:44px; right:340px; bottom:26px; color:rgba(255,255,255,.85); font-size:17px; font-weight:600; }
+.lg { position:absolute; left:44px; top:24px; }
+.tag { position:absolute; left:400px; top:36px; color:#fff; font-size:13px; font-weight:700; letter-spacing:.06em;
+  border:1.5px solid rgba(255,255,255,.55); border-radius:30px; padding:3px 12px; }
+.h1 { position:absolute; left:44px; right:340px; top:82px; color:#fff; font-size:38px; }
+.journey { position:absolute; left:44px; top:128px; width:760px; height:150px; }
+.journey svg { position:absolute; left:0; top:0; }
+.ms { position:absolute; transform:translate(-50%, -100%); margin-top:-16px; text-align:center; white-space:nowrap; color:#fff; }
+.ms .v { font-family:var(--display); font-weight:var(--dw); font-size:22px; line-height:1.1; }
+.ms .a { font-size:13px; opacity:.8; margin-top:2px; }
+.ms.last { margin-top:-24px; } .ms.last .v { font-size:32px; color:var(--orange); }
+.ms.first { transform:translate(-12%, -100%); }
+.ms.first .v { font-family:var(--sans); font-weight:700; font-size:17px; }
+.inv { position:absolute; left:44px; bottom:18px; color:rgba(255,255,255,.9); font-size:16px; font-weight:600; }
+.inv b { color:var(--orange); }
 .cta { position:absolute; right:0; top:0; bottom:0; width:300px; background:#fff; display:flex; flex-direction:column;
   align-items:center; justify-content:center; gap:12px; border-left:6px solid var(--orange); }
 """, html=f"""
 <div class="lg">{lockup(38, chip=True)}</div>
+<div class="tag">{t['tag']}</div>
 <div class="h1 d">{t['b_h1']}</div>
-<div class="eq"><div class="t"><div class="v">{eq[0][0]}</div><div class="l">{eq[0][1]}</div></div><div class="op">&times;</div>
-<div class="t"><div class="v">{eq[1][0]}</div><div class="l">{eq[1][1]}</div></div><div class="op">=</div>
-<div class="t hl"><div class="v">{eq[2][0]}</div><div class="l">{eq[2][1]}</div></div></div>
-<div class="sub">{t['b_sub']}</div>
+<div class="journey"><svg width="{W}" height="{H}" viewBox="0 0 {W} {H}">
+<path d="{path}" fill="none" stroke="#E8511A" stroke-width="4" stroke-dasharray="2 10" stroke-linecap="round"/>{nodes}</svg>{labels}</div>
+<div class="inv">{t['inv']} &middot; {t['b_sub']}</div>
 <div class="cta">{qr_block(lang, MSG[lang], 128, 14)}{call(26)}</div>""")
     return dict(front=front, back=back)
 
@@ -79,12 +101,14 @@ def panels(lang, t):
 def side(lang, t):
     return dict(bg="var(--orange)", note=True, css="""
 .lk { position:absolute; left:24px; top:18px; }
-.dy { position:absolute; right:14px; top:18px; width:124px; height:124px; }
-.big { position:absolute; left:24px; top:56px; color:#fff; font-family:'DM Sans', sans-serif; font-weight:800; font-size:60px; line-height:1; }
-.dur { position:absolute; left:24px; top:118px; color:var(--navy); font-family:var(--sans); font-weight:800; font-size:50px; line-height:1.05; }
-.cap { position:absolute; left:24px; right:24px; top:180px; color:#fff; font-size:19px; font-weight:700; line-height:1.25; }
+.dy { position:absolute; right:14px; top:60px; width:116px; height:116px; }
+.stag { position:absolute; left:24px; top:62px; color:#fff; font-size:12px; font-weight:700; letter-spacing:.05em;
+  border:1.5px solid rgba(255,255,255,.75); border-radius:30px; padding:2px 10px; }
+.big { position:absolute; left:24px; top:84px; color:#fff; font-family:'DM Sans', sans-serif; font-weight:800; font-size:46px; line-height:1; }
+.dur { position:absolute; left:24px; top:128px; color:var(--navy); font-family:var(--sans); font-weight:800; font-size:40px; line-height:1.05; }
+.cap { position:absolute; left:24px; right:24px; top:176px; color:#fff; font-size:17px; font-weight:700; line-height:1.25; }
 """, html=f"""
 <div class="lk">{lockup(22, chip=True)}</div>
 <div class="dy">{diya(bowl="#1B2666", flame="#fff", glow="#fff", dots="#E8511A", gid="gls")}</div>
-<div class="big lat">{t['s_big']}</div><div class="dur">{t['s_dur']}</div><div class="cap">{t['s_cap']}</div>
+<div class="stag">{t['tag']}</div><div class="big lat">{t['s_big']}</div><div class="dur">{t['s_dur']}</div><div class="cap">{t['s_cap']}</div>
 {side_cta(lang, MSG[lang], color="var(--navy)", icon="#fff")}""")
